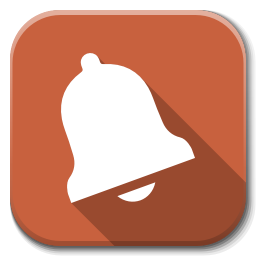
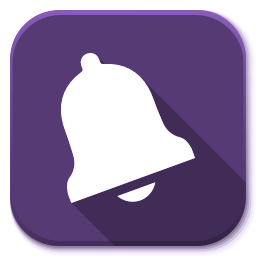
feat: 메인 테마 색 & 아이콘 변경

diff --git a/FE/moalarm/signin.html b/FE/moalarm/signin.html
@@ -56,7 +56,7 @@
 <!-- main -->
 <main class="form-signin w-100 m-auto">
   <form>
-    <img class="mb-4" src="./image/alarm-icon.png" alt="" width="72" height="57">
+    <img class="mb-4" src="./image/alarm-icon.png" alt="" width="100" height="100"">
     <h1 class="h3 mb-3 fw-normal">Please sign in</h1>
 
     <div class="form-floating">

diff --git a/FE/moalarm/signup.html b/FE/moalarm/signup.html
@@ -56,7 +56,7 @@
 <!-- main -->
 <main class="form-signin w-100 m-auto">
   <form>
-    <img class="mb-4" src="./image/alarm-icon.png" alt="" width="72" height="57">
+    <img class="mb-4" src="./image/alarm-icon.png" alt="" width="100" height="100">
     <h1 class="h3 mb-3 fw-normal">Please sign up</h1>
 
     <div class="form-floating">

diff --git a/FE/moalarm/logs.js b/FE/moalarm/logs.js
@@ -32,9 +32,9 @@
         ],
         lineTension: 0,
         backgroundColor: 'transparent',
-        borderColor: '#007bff',
+        borderColor: '#553A75',
         borderWidth: 4,
-        pointBackgroundColor: '#007bff'
+        pointBackgroundColor: '#553A75'
       }]
     },
     options: {

diff --git a/FE/moalarm/main.css b/FE/moalarm/main.css
@@ -46,3 +46,12 @@ nav {
   font-size: 28px;
 }
 
+.btn-primary:hover {
+  background-color: #9b70aa;
+  border-color: #9b70aa;
+}
+
+.btn-primary {
+  background-color: #553A75;
+  border-color: #553A75;
+}
